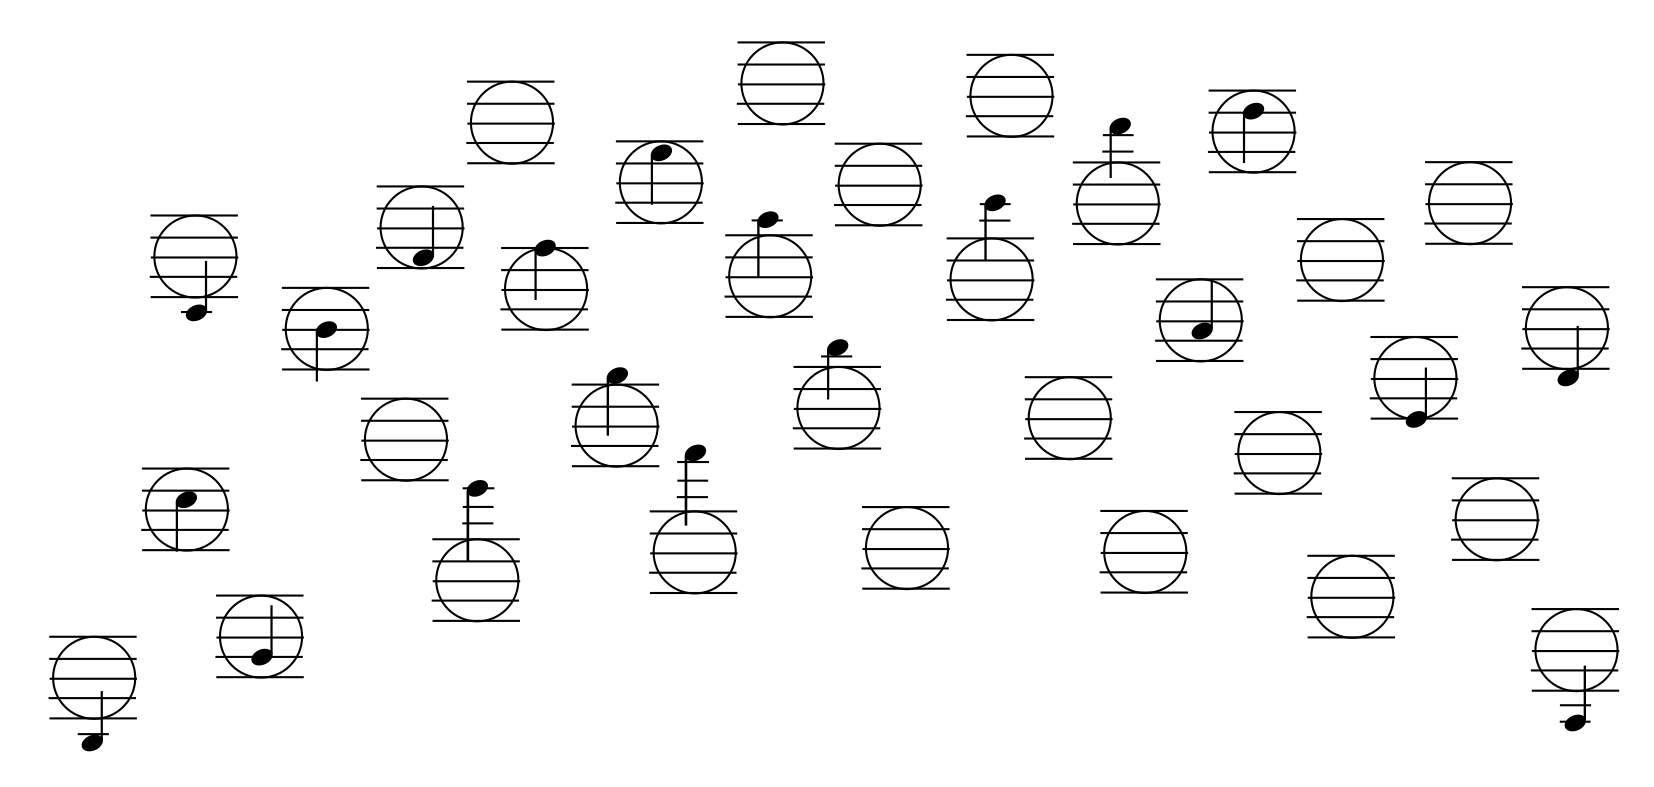
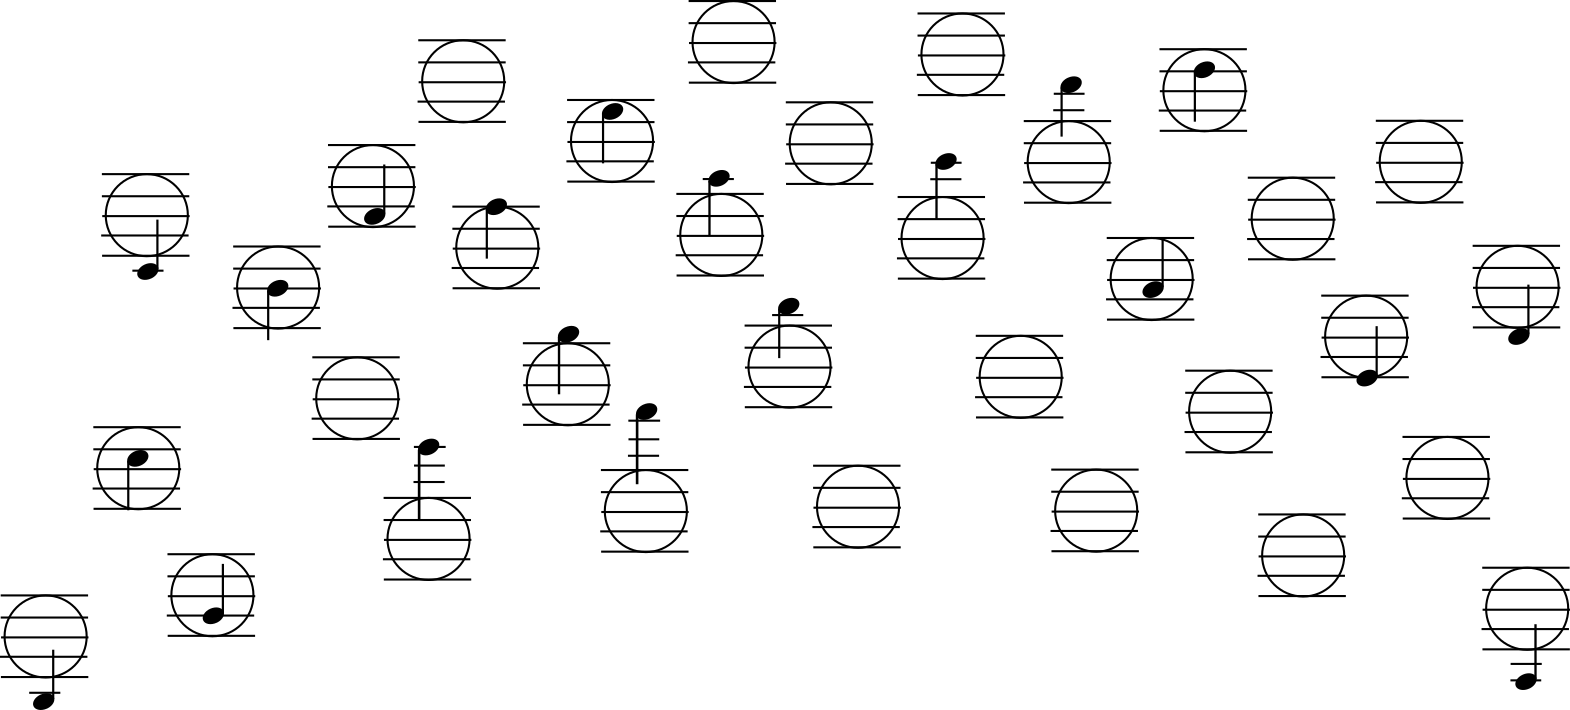
finish teclado no1

diff --git a/src/teclado/no1.tex b/src/teclado/no1.tex
@@ -1,20 +1,40 @@
-\noindent \begin{minipage}[t][0pt]{\linewidth}
-
 \section{Teclado N°. 1 - Mano izquierda}
+    \label{chap:no1}
 
 \subsection{Notas naturales abriendo}
-\includegraphics[width=\textwidth]{./imgs/teclado_no1_iz_abrir}
+\begin{center}
+    \includegraphics[width=0.8\textwidth]{./imgs/teclado_no1_iz_abrir}
+\end{center}
 
-\lilypondfile{./no1/abrir.ly}
+\lilypondfile{./no1/iz_abrir.ly}
 \hspace{0.1cm} \hline \hline
 
 \subsection{Notas naturales cerrando}
-\includegraphics[width=\textwidth]{./imgs/teclado_no1_iz_cerrar}
+\begin{center}
+    \includegraphics[width=0.8\textwidth]{./imgs/teclado_no1_iz_cerrar}
+\end{center}
 
-\lilypondfile{./no1/cerrar.ly}
+\lilypondfile{./no1/iz_cerrar.ly}
 \hspace{0.1cm} \hline \hline
 
 Este dibujo del teclado sirve para que el alumno puede estudiar la posición de
 las notas naturales, sin el instrumento y con el instrumento.
 
-\end{minipage}
+
+\pagebreak
+\section{Teclado N°. 1 - Mano derecha}
+
+\subsection{Notas naturales abriendo}
+\begin{center}
+    \includegraphics[width=0.8\textwidth]{./imgs/teclado_no1_de_abrir}
+\end{center}
+
+\lilypondfile{./no1/de_abrir.ly}
+\hspace{0.1cm} \hline \hline
+
+\subsection{Notas naturales cerrando}
+\begin{center}
+    \includegraphics[width=0.8\textwidth]{./imgs/teclado_no1_de_cerrar}
+\end{center}
+
+\lilypondfile{./no1/de_cerrar.ly}

diff --git a/src/index.tex b/src/index.tex
@@ -9,4 +9,9 @@ Signos y figuras de la música \dotfill \pageref{chap:signos}
 
 Teclado dibujo principal \dotfill \pageref{chap:teclado}
 
+"\dotfill" N° 1 notas naturales \dotfill \pageref{chap:no1}
+
 \end{multicols}
+
+\vfill
+\section{FIN}

diff --git a/book.tex b/book.tex
@@ -41,7 +41,6 @@
 \import{./src/theory}{signos.tex}
 \import{./src/teclado}{dibujo.tex}
 
-\pagebreak
 \import{./src/teclado}{no1.tex}
 
 \pagebreak
